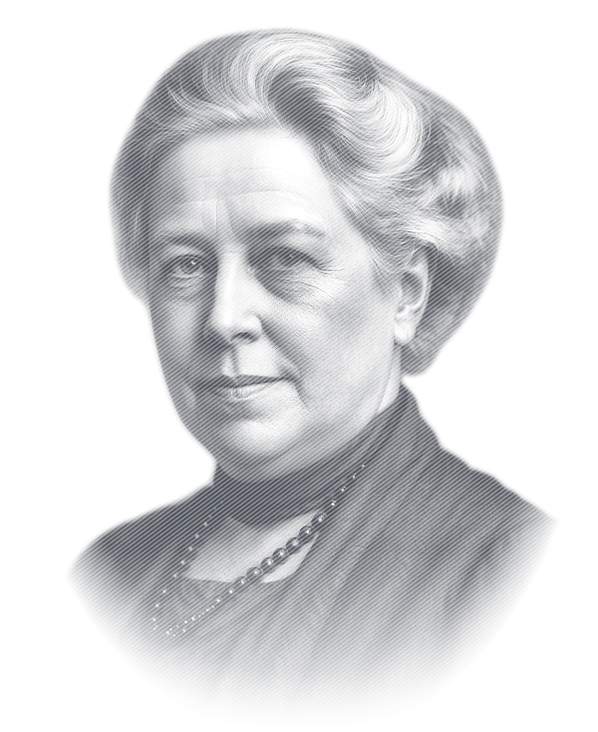
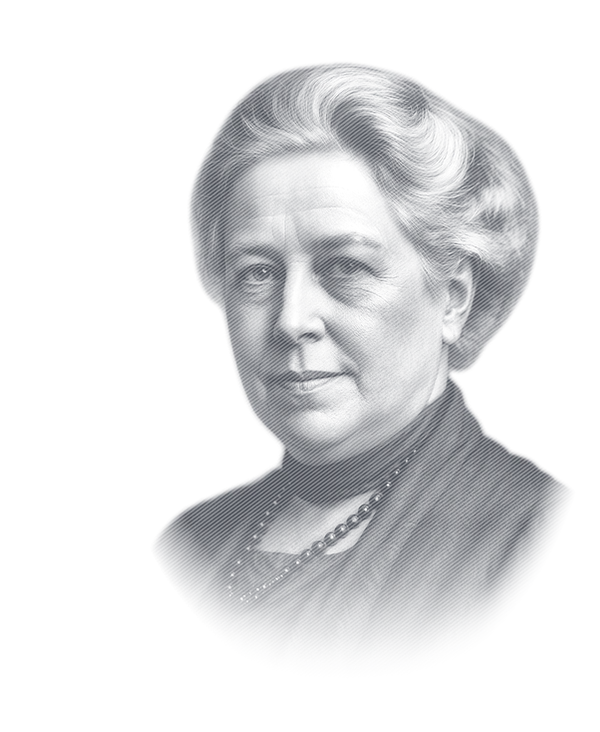
White matter pioneers: faces at the same size and height in every portrait, Stensen's biretta back on his head, portraits evenly spaced
Claude-Session: https://claude.ai/code/session_01BxXbRiWMCEb3yynCkD4tVX

diff --git a/assets/js/content.js b/assets/js/content.js
@@ -241,12 +241,9 @@
         .sort((a, b) => a.b - b.b);
       if (!P.length) return;
       const ERAS = erasTxt.split(";").map((e) => e.trim().match(/^(.*\S)\s+(\d+)$/)).filter(Boolean).map((m) => [m[1], +m[2]]);
-      // compressed time scale: log of the distance from today blended with the order, then a minimum spacing
-      const lg = (y) => -Math.log(2030 - y);
-      const L0 = lg(P[0].b), L1 = lg(P[P.length - 1].b) || L0 + 1;
-      const GAP = 104, W = Math.max(GAP * (P.length - 1) * 1.3, 1000);
-      const xs = P.map((p, i) => 0.38 * (lg(p.b) - L0) / (L1 - L0 || 1) + 0.62 * i / Math.max(1, P.length - 1)).map((f) => 56 + f * W);
-      for (let i = 1; i < xs.length; i++) xs[i] = Math.max(xs[i], xs[i - 1] + GAP);
+      // portraits at the same distance from each other, in order of birth
+      const GAP = 112;
+      const xs = P.map((p, i) => 56 + i * GAP);
       const xOf = (y) => { const k = P.findIndex((p) => p.b >= y); return k < 0 ? xs[xs.length - 1] : xs[k]; };
       const when = (y) => (y < 1000 ? "c. " + y : String(y));
       const face = (p) => (p.portrait ? `<img src="${esc(photoUrl(p.portrait))}" alt="" draggable="false" loading="lazy">` : "");

diff --git a/publications.html b/publications.html
@@ -82,7 +82,7 @@
   </footer>
 
   <script src="assets/js/main.js?v=5b8795e9"></script>
-  <script src="assets/js/content.js?v=18825e8b"></script>
+  <script src="assets/js/content.js?v=420591d9"></script>
   <script src="assets/js/publications.js?v=bbddf59e"></script>
 </body>
 </html>

diff --git a/index.html b/index.html
@@ -151,7 +151,7 @@
   </footer>
 
   <script src="assets/js/main.js?v=5b8795e9"></script>
-  <script src="assets/js/content.js?v=18825e8b"></script>
+  <script src="assets/js/content.js?v=420591d9"></script>
   <script src="assets/js/arnold3d.js?v=da5b6420"></script>
 </body>
 </html>

diff --git a/atlas.html b/atlas.html
@@ -116,7 +116,7 @@
   </footer>
 
   <script src="assets/js/main.js?v=5b8795e9"></script>
-  <script src="assets/js/content.js?v=18825e8b"></script>
+  <script src="assets/js/content.js?v=420591d9"></script>
   <script src="assets/js/atlas.js?v=2fb71b93"></script>
 </body>
 </html>

diff --git a/research.html b/research.html
@@ -196,6 +196,6 @@
   </footer>
 
   <script src="assets/js/main.js?v=5b8795e9"></script>
-  <script src="assets/js/content.js?v=18825e8b"></script>
+  <script src="assets/js/content.js?v=420591d9"></script>
 </body>
 </html>

diff --git a/404.html b/404.html
@@ -69,6 +69,6 @@
   </footer>
 
   <script src="assets/js/main.js?v=5b8795e9"></script>
-  <script src="assets/js/content.js?v=18825e8b"></script>
+  <script src="assets/js/content.js?v=420591d9"></script>
 </body>
 </html>

diff --git a/about.html b/about.html
@@ -97,6 +97,6 @@
   </footer>
 
   <script src="assets/js/main.js?v=5b8795e9"></script>
-  <script src="assets/js/content.js?v=18825e8b"></script>
+  <script src="assets/js/content.js?v=420591d9"></script>
 </body>
 </html>

diff --git a/contacts.html b/contacts.html
@@ -88,6 +88,6 @@
   </footer>
 
   <script src="assets/js/main.js?v=5b8795e9"></script>
-  <script src="assets/js/content.js?v=18825e8b"></script>
+  <script src="assets/js/content.js?v=420591d9"></script>
 </body>
 </html>

diff --git a/news.html b/news.html
@@ -71,6 +71,6 @@
   </footer>
 
   <script src="assets/js/main.js?v=5b8795e9"></script>
-  <script src="assets/js/content.js?v=18825e8b"></script>
+  <script src="assets/js/content.js?v=420591d9"></script>
 </body>
 </html>

diff --git a/nomina.html b/nomina.html
@@ -82,6 +82,6 @@
   </footer>
 
   <script src="assets/js/main.js?v=5b8795e9"></script>
-  <script src="assets/js/content.js?v=18825e8b"></script>
+  <script src="assets/js/content.js?v=420591d9"></script>
 </body>
 </html>

diff --git a/tools.html b/tools.html
@@ -74,6 +74,6 @@
   </footer>
 
   <script src="assets/js/main.js?v=5b8795e9"></script>
-  <script src="assets/js/content.js?v=18825e8b"></script>
+  <script src="assets/js/content.js?v=420591d9"></script>
 </body>
 </html>
